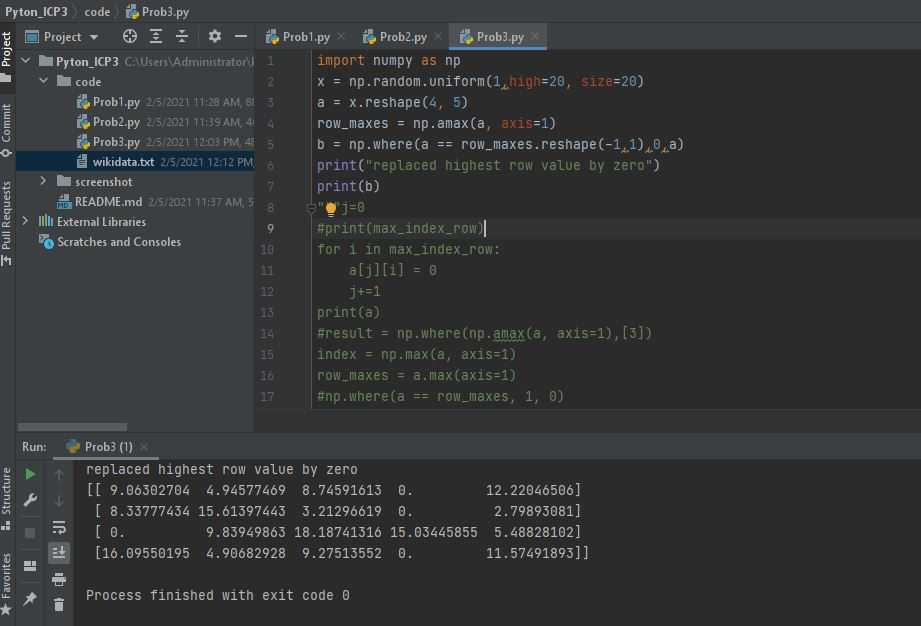
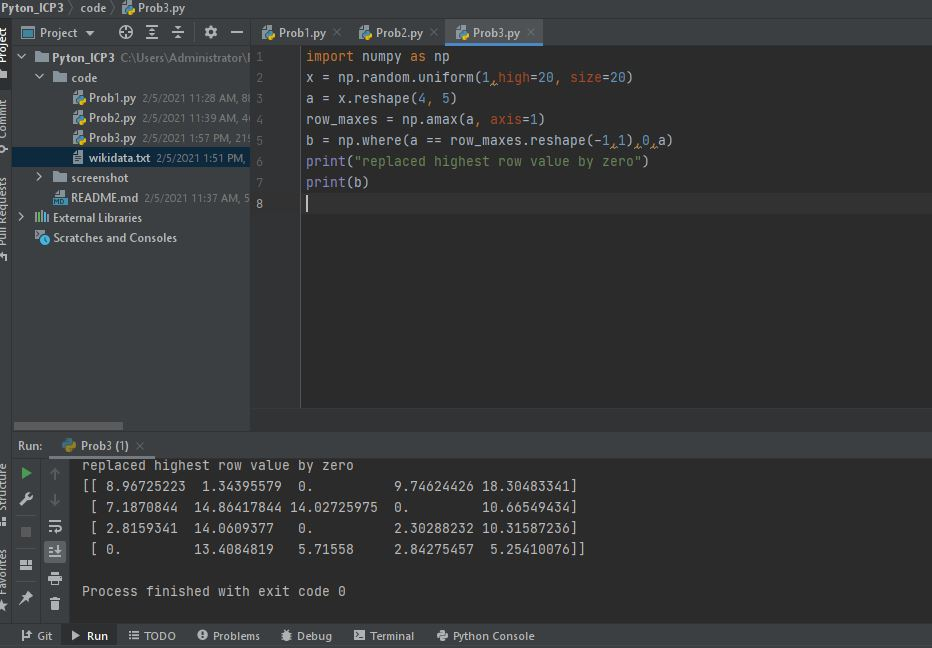
updated

diff --git a/code/Prob3.py b/code/Prob3.py
@@ -5,15 +5,3 @@ row_maxes = np.amax(a, axis=1)
 b = np.where(a == row_maxes.reshape(-1,1),0,a)
 print("replaced highest row value by zero")
 print(b)
-"""j=0
-#print(max_index_row)
-for i in max_index_row:
-    a[j][i] = 0
-    j+=1
-print(a)
-#result = np.where(np.amax(a, axis=1),[3])
-index = np.max(a, axis=1)
-row_maxes = a.max(axis=1)
-#np.where(a == row_maxes, 1, 0)
-print(np.where(index,0,a))
-print(a)"""
